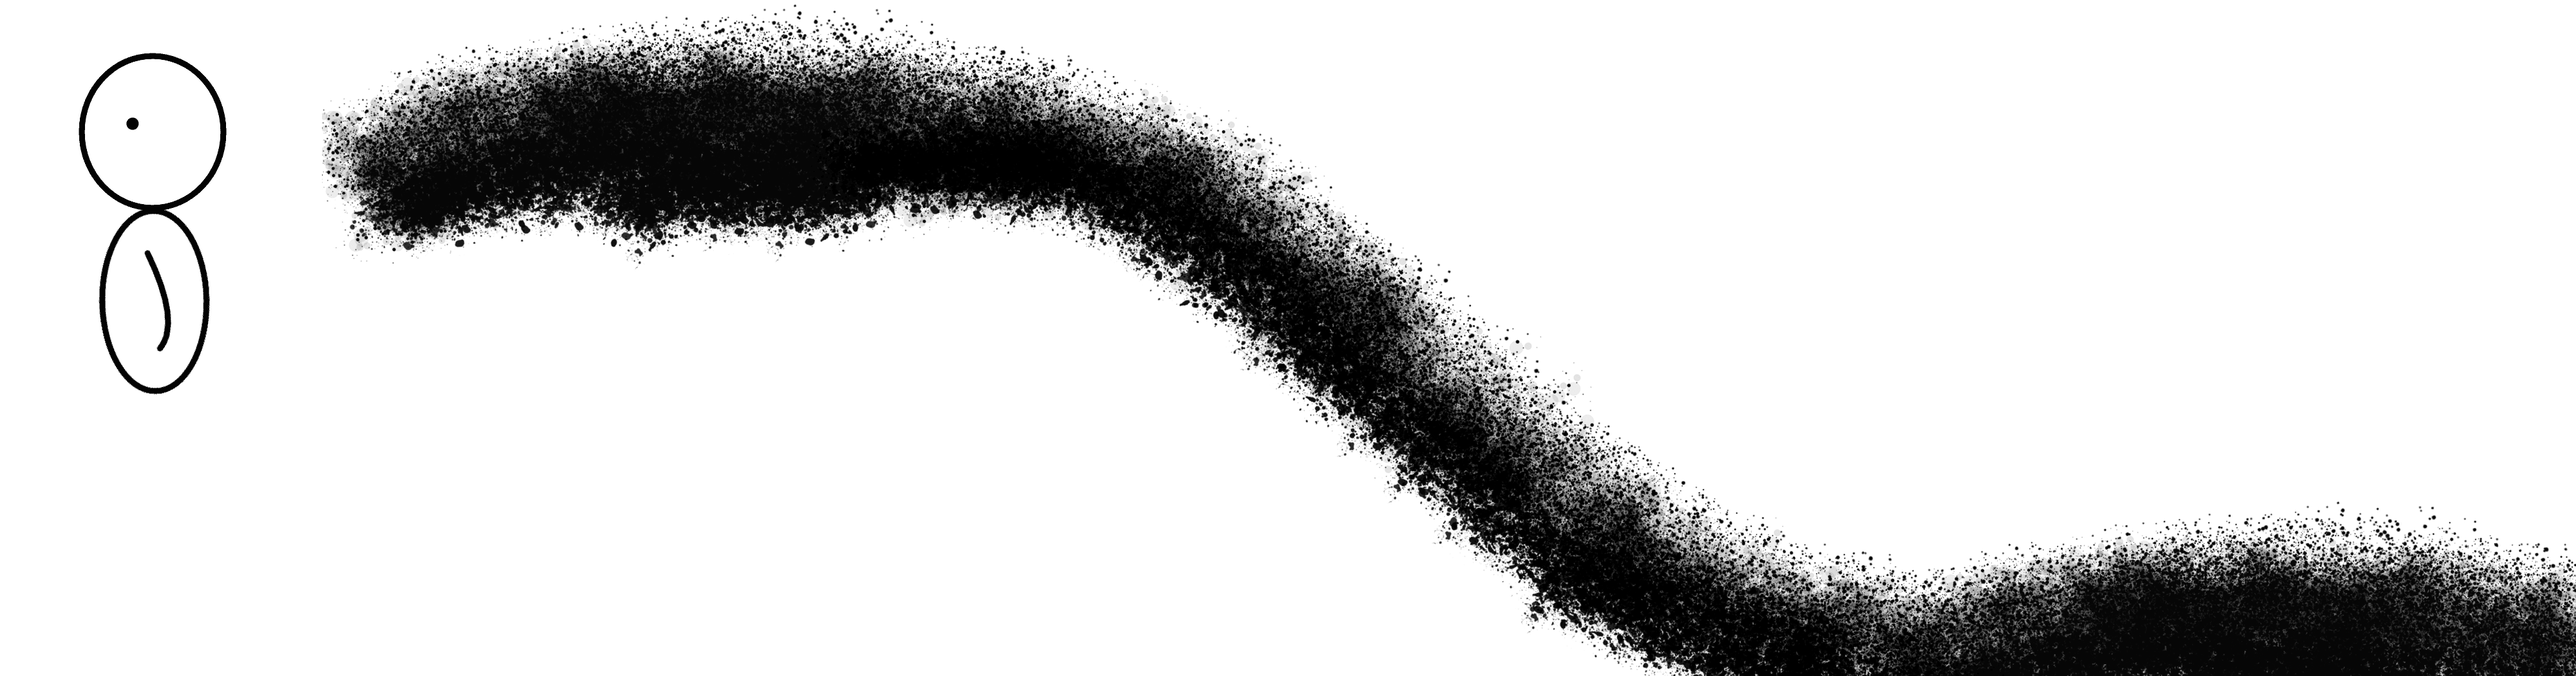
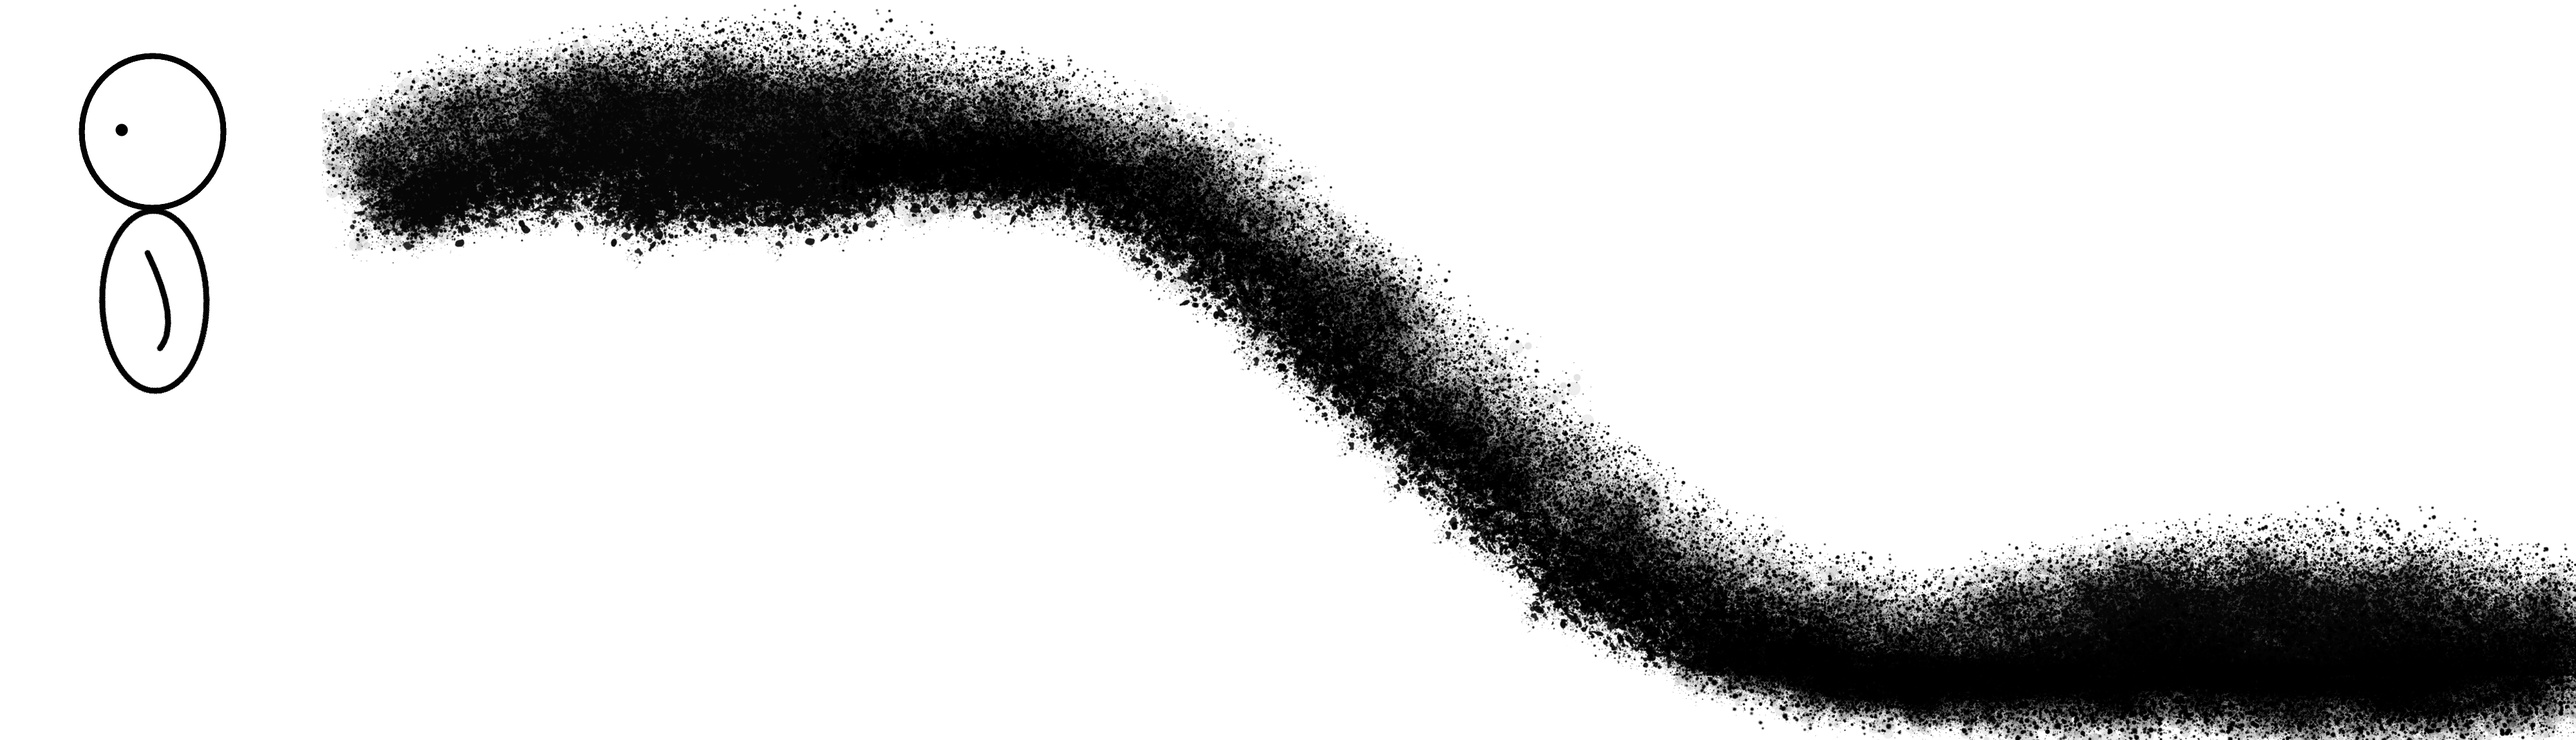
Scene 3 final

Changed region(s): [[0.125, 0.0305, 1.0, 1.0], [0.0312, 0.2133, 0.0938, 0.579], [0.0312, 0.061, 0.0938, 0.1829]]

diff --git a/scenes.js b/scenes.js
@@ -202,8 +202,8 @@ function scene3() {
   //Create animation
   Tween.get(hill, {loop: true})
     .wait(500)
-    .to({x: 500, y: -20}, 1000, createjs.Ease.sineIn)
-    .to({x: 1000, y: 400}, 700)
+    .to({x: 500, y: -50}, 1000, createjs.Ease.sineIn)
+    .to({x: 1000, y: 450}, 700)
     .to({x: 1932, y: 613}, 1600, createjs.Ease.sineOut)
     .call(() => {
       Tween.get(person)
@@ -213,8 +213,9 @@ function scene3() {
     .wait(1500)
   Tween.get(person, {loop: true})
     .wait(500)
-    .to({angle: -10}, 1000, createjs.Ease.sineIn)
-    .to({angle: 20}, 700, createjs.Ease.ExponentialOut)
+    .to({angle: -10}, 1000, createjs.Ease.sineInOut)
+    .to({angle: 20}, 350, createjs.Ease.sineInOut)
+    .wait(350)
     .to({angle: 0}, 1600, createjs.Ease.sineOut)
     .wait(1500)
 
